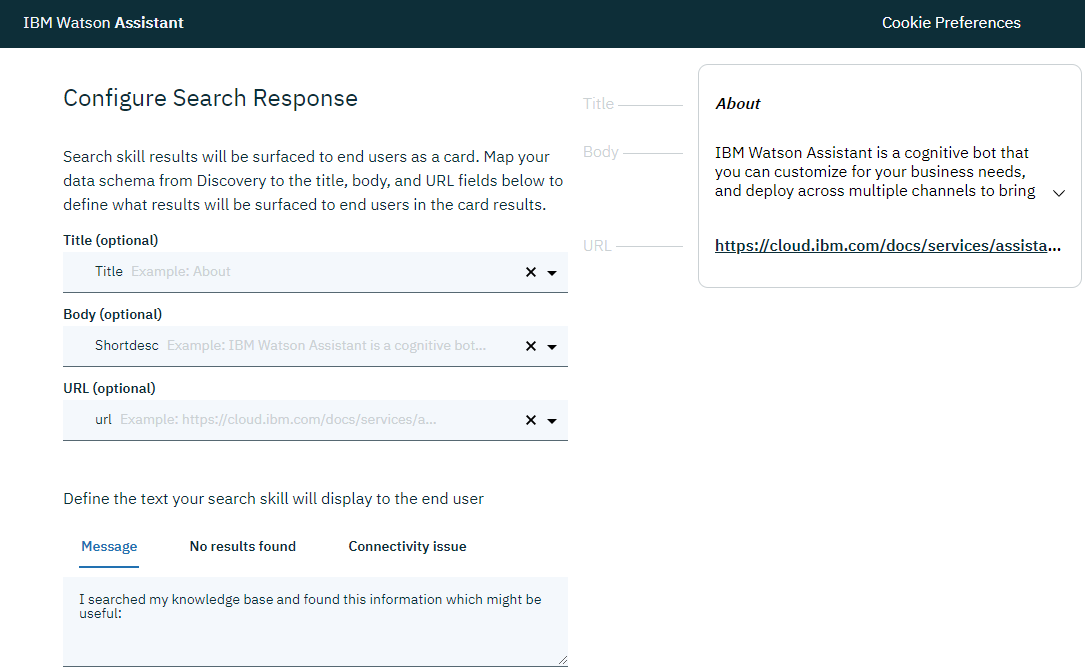
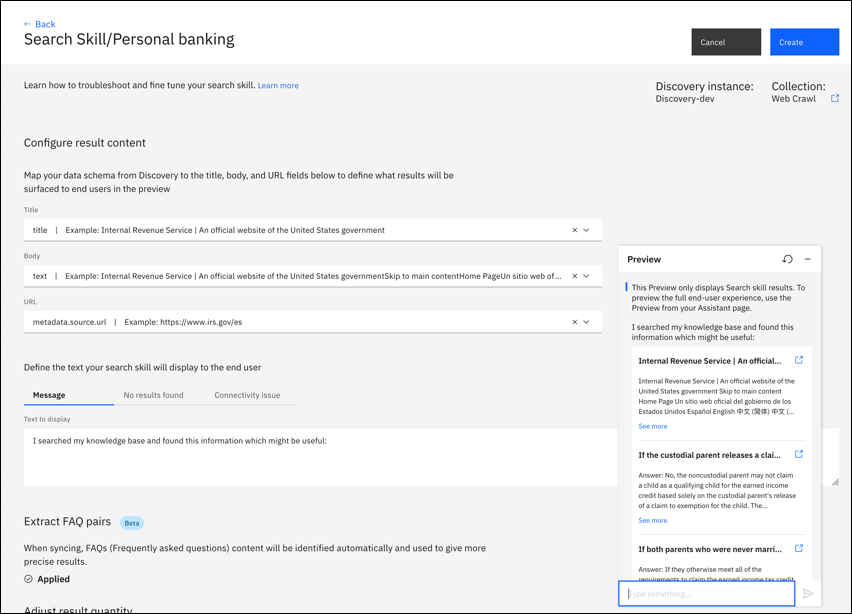
Add new feature and update screen shot

diff --git a/skill-search-add.md b/skill-search-add.md
@@ -2,7 +2,7 @@
 
 copyright:
   years: 2018, 2021
-lastupdated: "2021-09-09"
+lastupdated: "2021-10-14"
 
 subcollection: assistant
 
@@ -257,6 +257,8 @@ If you upload a JSON file that contains repeating name values, then only the fir
     | No results found | No search results are found | `I searched my knowledge base for information that might address your query, but did not find anything useful to share.` |
     | Error message | I was unable to complete the search for some reason | `I might have information that could help address your query, but am unable to search my knowledge base at the moment.` |
     {: caption="Search result messages" caption-side="top"}
+
+1. **Extract FAQ pairs** is applied automatically. Frequently asked questions content is identified automatically and used to give more precise results.
 
 1.  Choose whether to enable **Emphasize the answer**. 
 
